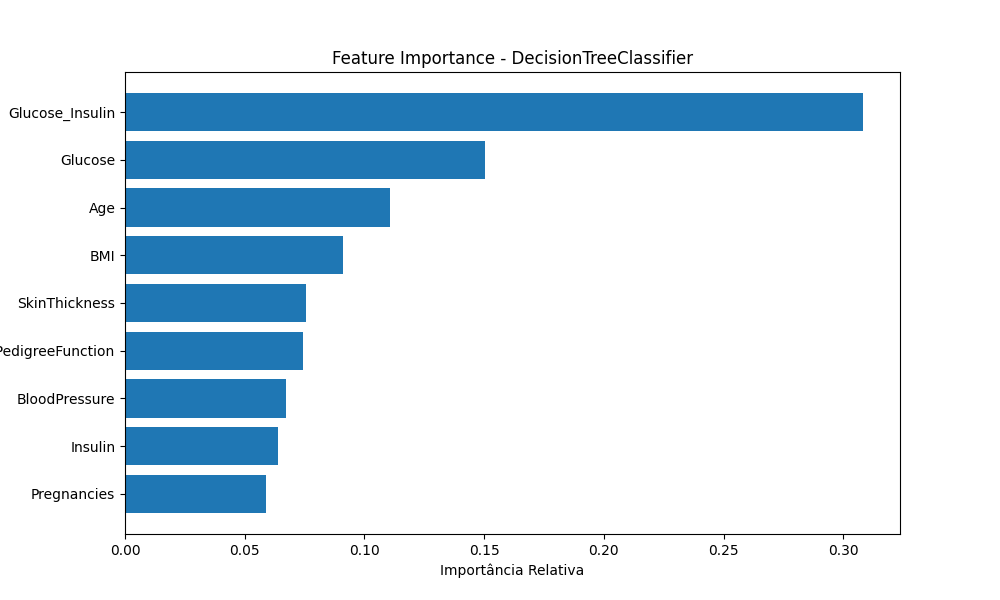
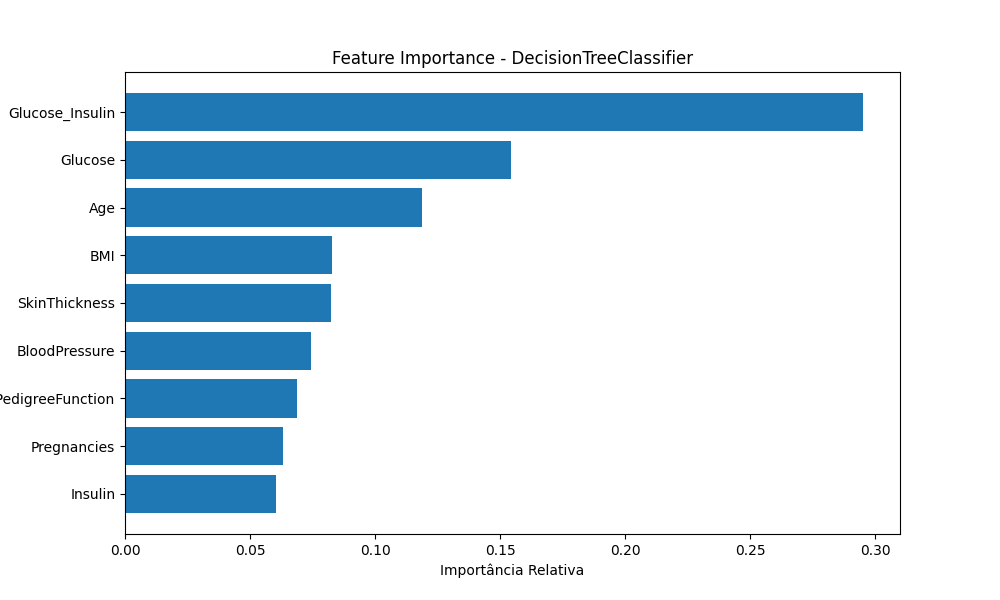
inserindo llm para interpretar diagnosticos

diff --git a/llm_interpreter.py b/llm_interpreter.py
@@ -1,0 +1,55 @@
+import ollama
+from typing import Optional
+
+
+def interpretar_resultado(dados_paciente: dict, predicao: int, probabilidade: float) -> Optional[str]:
+    """
+    Usa o LLama (via Ollama) para gerar uma interpretação em linguagem natural
+    do resultado do diagnóstico de diabetes.
+    
+    Args:
+        dados_paciente: Dicionário com os dados clínicos do paciente.
+        predicao: 0 (negativo) ou 1 (positivo para diabetes).
+        probabilidade: Percentual de certeza do modelo (0.0 a 1.0).
+    
+    Returns:
+        Texto interpretativo gerado pela LLM, ou None em caso de falha.
+    """
+    resultado_texto = "POSITIVO para diabetes" if predicao == 1 else "NEGATIVO (saudável)"
+    certeza = f"{probabilidade:.1%}"
+
+    prompt = f"""Você é um assistente médico especializado em diabetes. 
+Analise os dados clínicos abaixo e a predição do modelo de IA, e forneça uma interpretação clara e acessível para o paciente.
+
+**Dados Clínicos do Paciente:**
+- Gravidezes: {dados_paciente.get('Pregnancies', 'N/A')}
+- Glicose: {dados_paciente.get('Glucose', 'N/A')} mg/dL
+- Pressão Sanguínea: {dados_paciente.get('BloodPressure', 'N/A')} mm Hg
+- Espessura da Pele: {dados_paciente.get('SkinThickness', 'N/A')} mm
+- Insulina: {dados_paciente.get('Insulin', 'N/A')} mu U/ml
+- IMC: {dados_paciente.get('BMI', 'N/A')}
+- Histórico Familiar (Pedigree): {dados_paciente.get('DiabetesPedigreeFunction', 'N/A')}
+- Idade: {dados_paciente.get('Age', 'N/A')} anos
+
+**Resultado do Modelo de IA:** {resultado_texto}
+**Certeza do Modelo:** {certeza}
+
+Por favor, forneça:
+1. Uma explicação do resultado em linguagem simples
+2. Quais valores clínicos chamam mais atenção (acima ou abaixo dos limites normais)
+3. Recomendações gerais de saúde
+
+IMPORTANTE: Termine sempre com o aviso de que esta análise é gerada por IA e NÃO substitui uma consulta médica profissional.
+Responda em português brasileiro. Seja conciso (máximo 15 linhas).
+"""
+
+    try:
+        response = ollama.chat(
+            model="llama3",
+            messages=[{"role": "user", "content": prompt}]
+        )
+        return response.message.content
+    except Exception as e:
+        print(f"\n⚠️  Não foi possível gerar a interpretação da IA: {e}")
+        print("Verifique se o Ollama está rodando: ollama serve")
+        return None

diff --git a/main.py b/main.py
@@ -2,6 +2,7 @@ import pandas as pd
 import numpy as np
 import joblib
 import os
+from llm_interpreter import interpretar_resultado
 
 def limpar_tela():
     os.system('cls' if os.name == 'nt' else 'clear')
@@ -104,6 +105,20 @@ def main():
                 print(f"✅ RESULTADO: NEGATIVO (SAUDÁVEL)")
                 print(f"🛡️  Certeza do Modelo: {probabilidade[0]:.2%}")
                 print("\nRecomendação: Mantenha hábitos saudáveis.")
+            
+            # Interpretação via LLM
+            prob_final = probabilidade[1] if predicao == 1 else probabilidade[0]
+            dados_dict = dados_paciente.iloc[0].to_dict()
+            
+            print("\n" + "="*40)
+            print("   🤖 INTERPRETAÇÃO DA IA (LLama)")
+            print("="*40)
+            
+            interpretacao = interpretar_resultado(dados_dict, predicao, prob_final)
+            if interpretacao:
+                print(interpretacao)
+            else:
+                print("(Interpretação indisponível. Verifique se o Ollama está rodando: brew services start ollama)")
             
         print("\n" + "-"*40)
         continuar = input("Diagnosticar outro paciente? (s/n): ").lower()